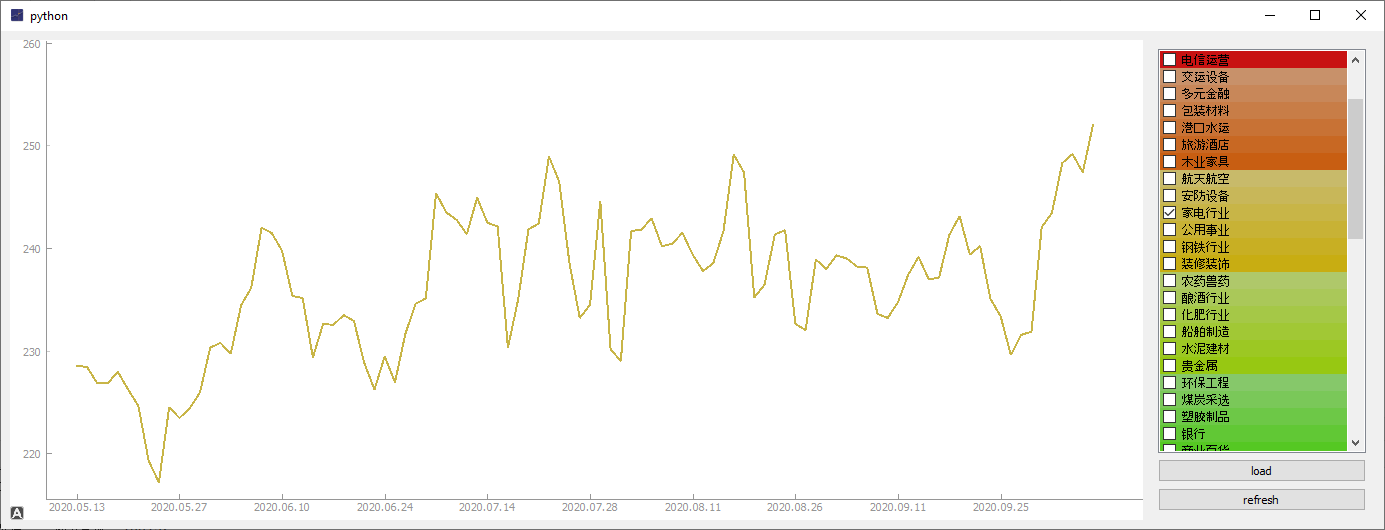
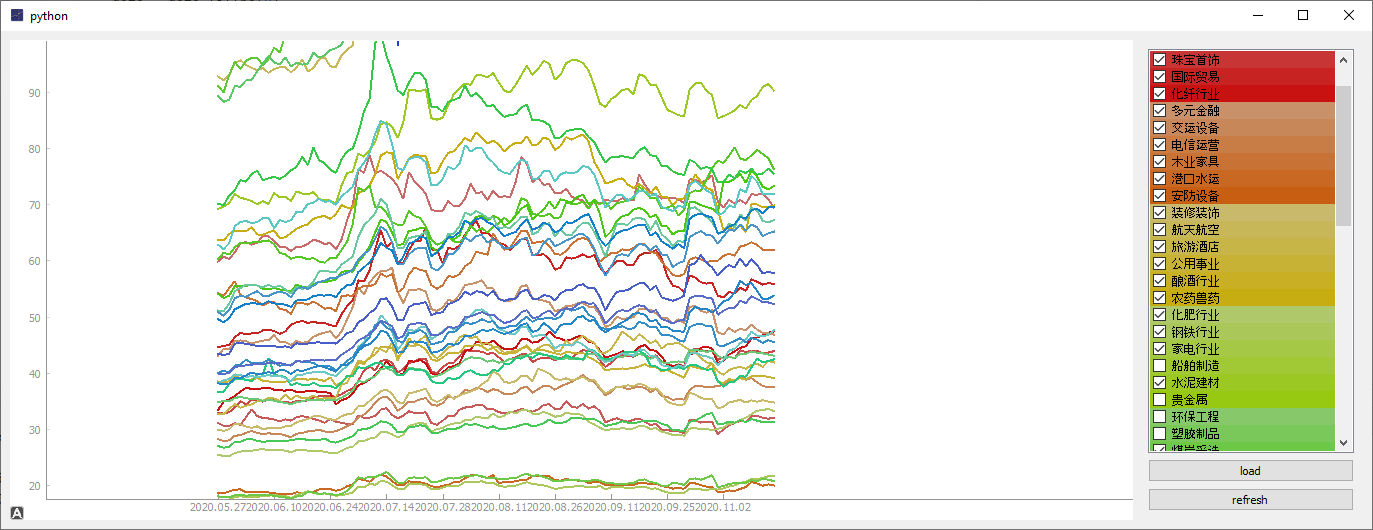
adapt dimensions and process to stock data

diff --git a/StockDataset.py b/StockDataset.py
@@ -16,6 +16,8 @@ import numpy as np
 import random
 from sklearn.preprocessing import MinMaxScaler
 import json
+import matplotlib.font_manager as fm
+import matplotlib.pyplot as plt
 
 # tfds.builder
 class StockBuilderDataset(tfds.core.GeneratorBasedBuilder):
@@ -395,6 +397,72 @@ class StockTFRecordDataset(object):
 
         return data * (self.max - self.min) + self.min
 
+class StockSampler:
+    def __init__(self, inputLength=30, targetLength=7):
+        self.inputLength = inputLength
+        self.targetLength = targetLength
+
+
+    def get_single_random_sample(self, show=True):
+        industryName = random.sample(tf.io.gfile.listdir("industries"), 1)[0]
+        print(industryName)
+
+        chineseName = os.path.splitext(industryName)[0]
+
+        localData = pd.read_csv(os.path.join("industries", industryName))
+        localData = localData.sort_values(by=['times'])
+        localData.set_index("times", inplace=True)
+
+        stockName = random.sample(localData.columns.to_list(),1)[0]
+        stockData = localData[stockName].to_numpy(dtype=float)
+        stockData[np.isnan(stockData)] = 0
+
+        print("stockData", np.shape(stockData))
+        if show:
+            plt.figure()
+            plt.plot(np.arange(0, np.shape(stockData)[0]), stockData)
+            font = fm.FontProperties(fname='c:\\windows\\fonts\\simsun.ttc')
+            plt.title(stockName, fontproperties=font, fontsize='large')
+            plt.show()
+
+        # currentStart = 0
+        # while (currentStart <= (stockData.size - self.inputLength - self.targetLength)):
+        #     if np.count_nonzero(stockData[currentStart:currentStart + 30]) == 0:
+        #         currentStart += 30
+        #         continue
+        #
+        #     if inputData is None:
+        #         # input: 30 days
+        #         inputData = np.expand_dims(stockData[currentStart:currentStart + self.inputLength], axis=0)
+        #         # target: 37-1 days
+        #         targetData = np.expand_dims(stockData[currentStart + self.inputLength - 1:
+        #                                               currentStart + self.inputLength + self.targetLength - 1],
+        #                                     axis=0)
+        #         # start from the last of input sequence!
+        #     else:
+        #         inputData = np.concatenate([inputData,
+        #                                     np.expand_dims(stockData[currentStart:currentStart
+        #                                                                           + self.inputLength], axis=0)],
+        #                                    axis=0)
+        #         targetData = np.concatenate([targetData,
+        #                                      np.expand_dims(stockData[currentStart + self.inputLength - 1:
+        #                                                               currentStart + self.inputLength + self.targetLength - 1],
+        #                                                     axis=0)], axis=0)
+        #     currentStart += 30
+        #     label = label.append({"industry": chineseName, "stock": stockName}, ignore_index=True)
+
+    def normalize(self, data):
+        if os.path.exists("data/info.json"):
+            with open("data/info.json", 'r') as outfile:
+                json_data = json.load(outfile)
+                min = json_data['min']
+                max = json_data['max']
+                return (data - min) / (max - min)
+        else:
+            raise Warning("Cannot find info.json")
+
 if __name__ == '__main__':
     # stockDataset = StockBuilderDataset()
-    stockDataset = StockTFRecordDataset()
+    # stockDataset = StockTFRecordDataset()
+    stockSampler = StockSampler()
+    stockSampler.get_single_random_sample()

diff --git a/Stock.py b/Stock.py
@@ -247,7 +247,11 @@ class Stock(ABC):
         for idx, (name, data) in enumerate(self.averaged.items()):
             averaged_industry = pd.DataFrame(columns=["times", name])
             averaged_industry["times"] = data["times"].tolist()
-            temp = copy.deepcopy(data).drop("times", axis=1).mean(axis=1)
+            data = data.fillna(0)
+
+            temp = copy.deepcopy(data).drop("times", axis=1)
+            nonZeroNum = temp.gt(0).sum(axis=1)
+            temp = temp.sum(axis=1)/nonZeroNum
             averaged_industry[name] = temp
 
             if joined is None:
@@ -378,7 +382,6 @@ class MainWindow(QtWidgets.QMainWindow):
 
         self.times = [value for (key, value) in sorted(self.times.items())]
         print("times", self.times)
-
 
         for key, value in temp.items():
             self.dataDict[key] = [value1 for (key1, value1) in sorted(value.items())]

diff --git a/WebScraper.py b/WebScraper.py
@@ -56,6 +56,7 @@ class LoadThread(threading.Thread):
                     merged = pd.merge(merged, newData, on="times", how='outer')
 
             merged["times"] = ["{}.{}.{}".format(str(t)[:4], str(t)[4:6], str(t)[6:8]) for t in merged["times"].tolist()]
+            merged = merged.sort_values(by=['times'])
             merged.to_csv(filename, index=False)
             self.stock.averaged[name] = merged
 
@@ -89,7 +90,7 @@ class LoadThread(threading.Thread):
         # print("URL:", url)
         l_jsonData = requests.get(url).json()
         # print("stock", l_jsonData["name"])
-        data = pd.DataFrame(data={"closes": l_jsonData["closes"], "times": l_jsonData["times"]})
+        data = pd.DataFrame(data={"times": l_jsonData["times"], "closes": l_jsonData["closes"]})
 
         if p_draw:
             data.plot(x="times", y="closes", figsize=(10, 4), grid=True)

diff --git a/Trainer.py b/Trainer.py
@@ -162,7 +162,6 @@ class Trainer:
 
     def evaluate(self, epoch):
         self.test_loss.reset_states()
-        # try:
         for (batch, (input, target)) in enumerate(self.test_dataset):
             if input.shape[0] != self.batch_size:
                     continue

diff --git a/README.md b/README.md
@@ -1,5 +1,7 @@
 # finance
-## Industries
+## Data Scraping
+
+### Industries
 
 Comparison of total market values among industries in China
 
@@ -9,10 +11,22 @@ Comparison of total market values among industries in China
 
 <!---![picture](resources/mean_value_industries_times.png) --->
 
-## Industry Scope
+### Industry Scope
 
 In stock.py, there is a GUI application which can selectively show different industries in the past 100 days.
 
 The values are calculated by averaging all stocks for each day.
 
 ![image-20201101220551296](resources/industry_scope.png)
+
+## Data Analysis
+
+### Stock Transformer
+
+The subproject is aimed to apply transformer-model in field of natural language processing to the stock prediction.
+
+
+
+The training loss decreases with epochs.
+
+![loss diagram](resources/loss.svg)
